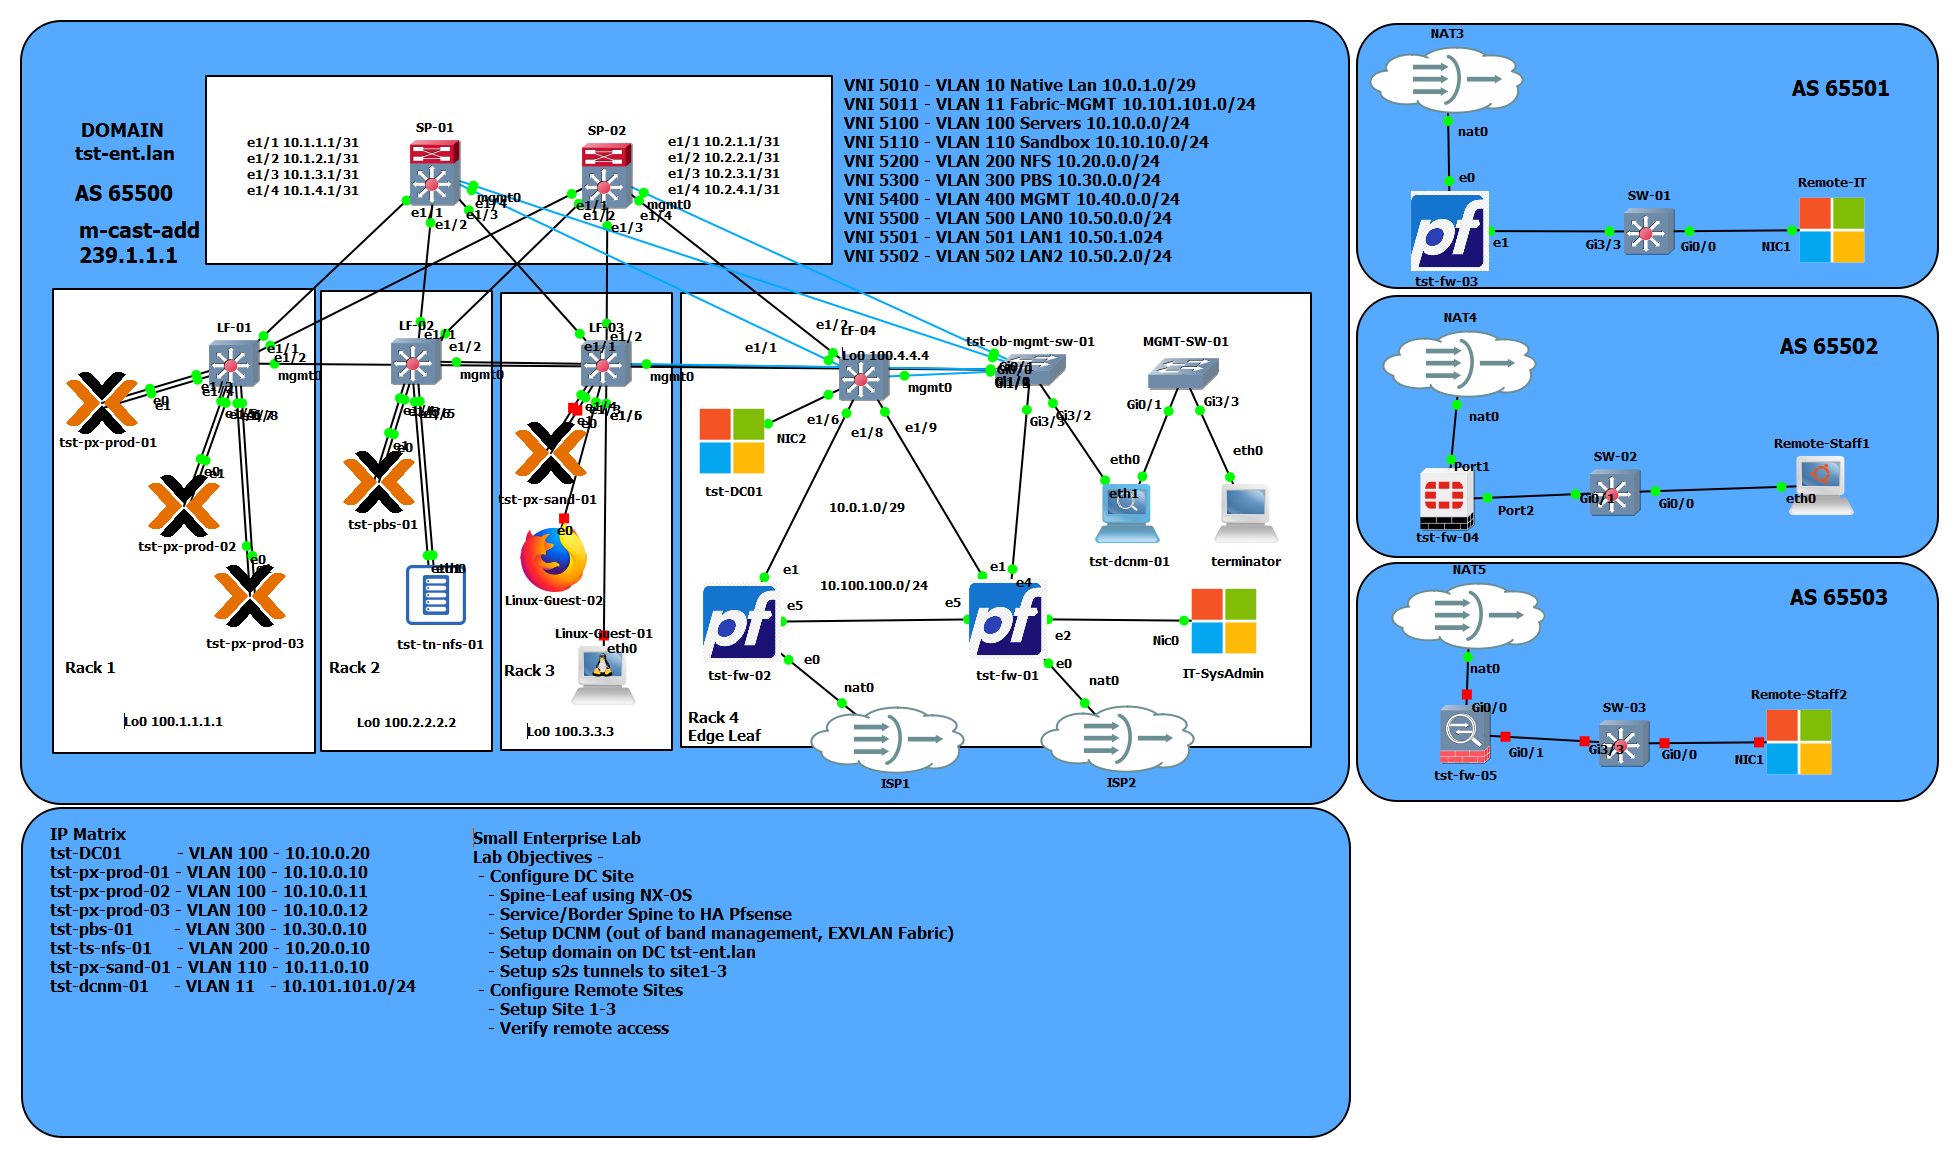
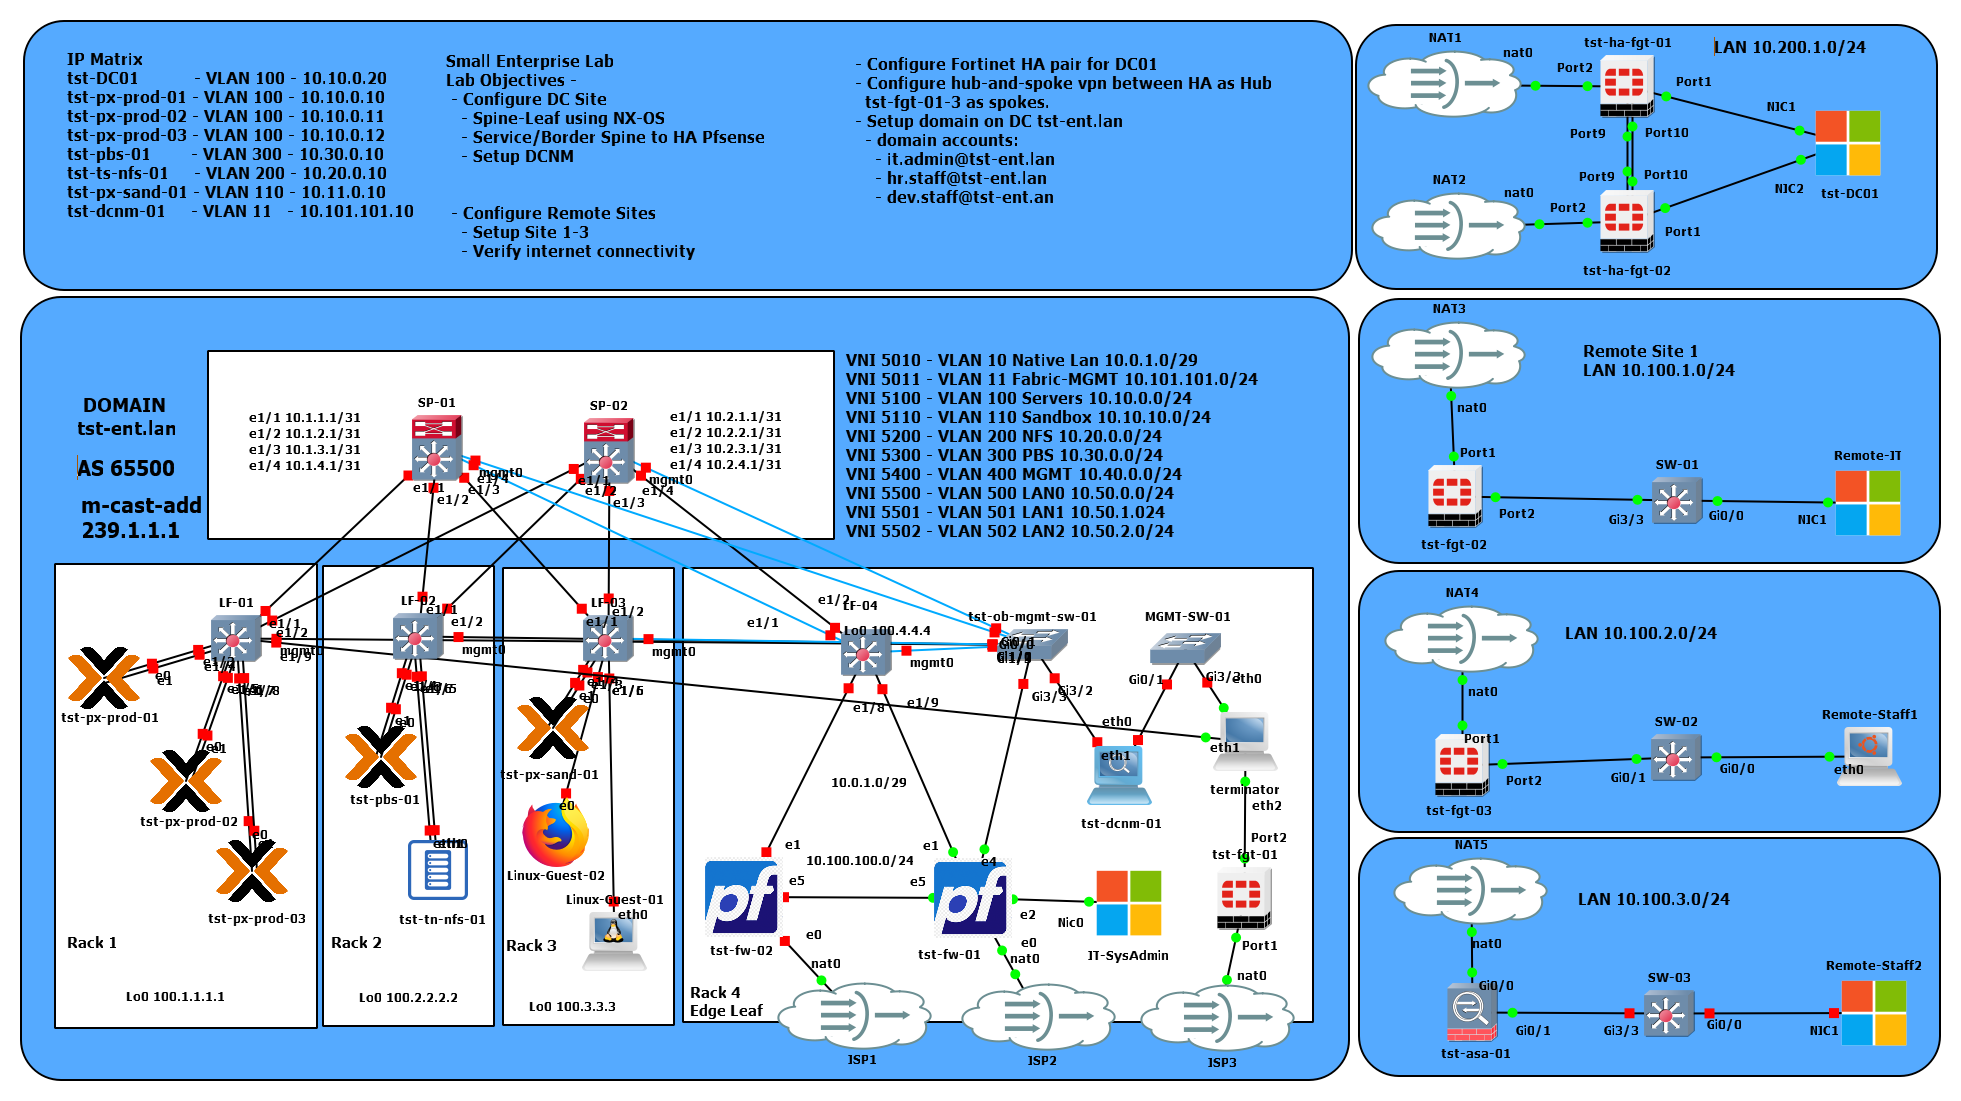
updates

diff --git a/labs/tst-enterprise/README.md b/labs/tst-enterprise/README.md
@@ -1,18 +1,20 @@
 ## Modeling Lab for Small Enterprise 
 - Modeling Platform: GNS3 on bare metal (Dell R630)
-- Node Breakdown: 
-  - 2 pfsense HA firewalls
-  - 2 nexus-os virtual switch as spine
-  - 4 nexus-os leaf/tor switches - 1 configured as edge leaf
-  - 4 proxmox type-1 hypervisor 3 node cluster / 1 sandbox
-  - 1 proxmox backbup server
-  - 1 truenas nfs storage server
-  - 1 iosv management switch 
-  - 1 iosv out of band management switch
-  - 1 windows 11 sys admin node
-  - 1 terminal/linux node
-  - 1 container test node
-  - 1 windows server 2022 as domain controller and internal DNS for Windows users. 
+
+- Site Breakdown:
+  - corporate datacenter 
+    - 2 pfsense HA firewalls
+    - 2 nexus-os virtual switch as spine
+    - 4 nexus-os leaf/tor switches - 1 configured as edge leaf
+    - 4 proxmox type-1 hypervisor 3 node cluster / 1 sandbox
+    - 1 proxmox backbup server
+    - 1 truenas nfs storage server
+    - 1 iosv management switch 
+    - 1 iosv out of band management switch
+    - 1 windows 11 sys admin node
+    - 1 terminal/linux node
+    - 1 container test node 
+    - 1 windows server 2022 as domain controller and internal DNS for Windows users. 
   - remote site 1
     - 1 pfsense fw setup as remote site 1
     - 1 iosvl2 switch
@@ -36,5 +38,7 @@ The network diagram.
 
 
 ![image](src/images/main-topology-diagram.png "Lab Topology Diagram")
+
+## Lab Instructions
 
 

diff --git a/labs/tst-enterprise/tst-dc-site-config.md b/labs/tst-enterprise/tst-dc-site-config.md
@@ -351,3 +351,89 @@ ip dhcp pool leaf
 
 
 ```
+
+# TST-HA-FGT-01
+
+```
+config system global
+set hostname tst-ha-fgt-01
+set timezone 12
+end
+config system dns
+set primary 8.8.8.8
+set secondary 1.1.1.1
+end
+
+
+config system interface
+edit "lan-switch"
+set vdom "root"
+set ip 10.200.1.1 255.255.255.0
+set allowaccess ping https ssh
+set type switch
+set device-identification enable
+set lldp-transmission enable
+set role lan
+set snmp-index 15
+next
+end
+
+
+```
+# TST-HA-FGT-02
+
+```
+config system global
+set hostname tst-ha-fgt-02
+set timezone 12
+end
+config system dns
+set primary 8.8.8.8
+set secondary 1.1.1.1
+end
+
+```
+
+
+# TST-FGT-01
+
+```
+config system global
+set hostname tst-fgt-01
+set timezone 12
+end
+config system dns
+set primary 8.8.8.8
+set secondary 1.1.1.1
+end
+
+```
+
+# TST-FGT-02
+
+```
+config system global
+set hostname tst-fgt-02
+set timezone 12
+end
+config system dns
+set primary 8.8.8.8
+set secondary 1.1.1.1
+end
+
+```
+
+# TST-FGT-03
+
+```
+config system global
+set hostname tst-ha-fgt-03
+set timezone 12
+end
+config system dns
+set primary 8.8.8.8
+set secondary 1.1.1.1
+end
+
+```
+
